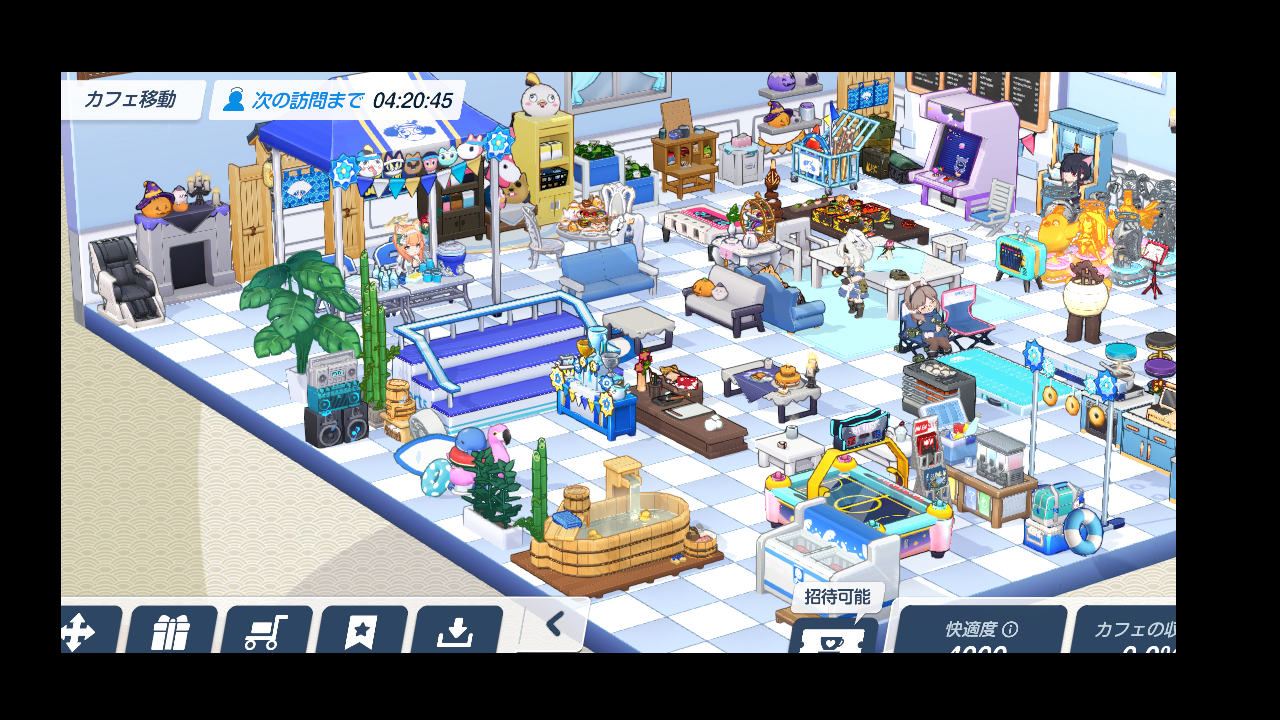
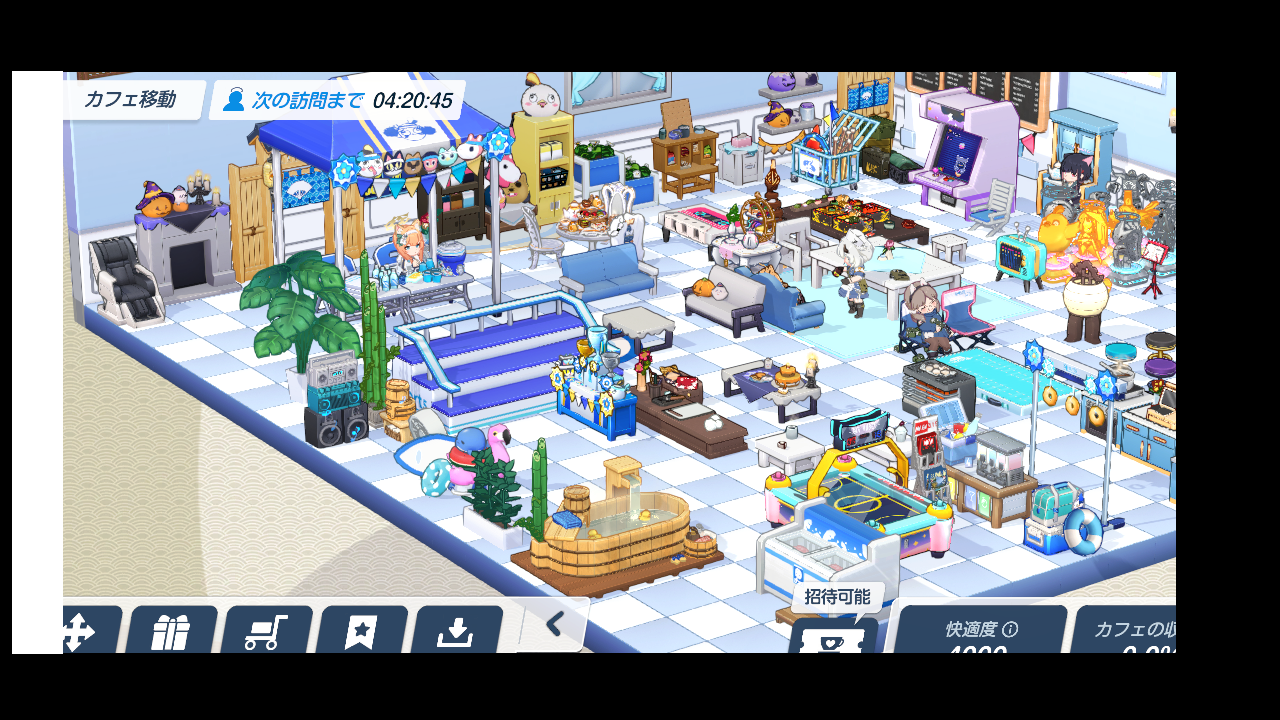
fix(cafe): expand search box

Changed region(s): [[0.0, 0.0917, 0.0625, 0.9167]]

diff --git a/tasks/cafe/assets/assets_cafe.py b/tasks/cafe/assets/assets_cafe.py
@@ -17,10 +17,10 @@ BOX_SEARCH = ButtonWrapper(
     name='BOX_SEARCH',
     share=Button(
         file='./assets/share/cafe/BOX_SEARCH.png',
-        area=(61, 72, 1176, 653),
-        search=(41, 52, 1196, 673),
-        color=(172, 180, 188),
-        button=(61, 72, 1176, 653),
+        area=(12, 71, 1176, 654),
+        search=(0, 51, 1196, 674),
+        color=(175, 183, 190),
+        button=(12, 71, 1176, 654),
     ),
 )
 CAFE_FIRST = ButtonWrapper(
